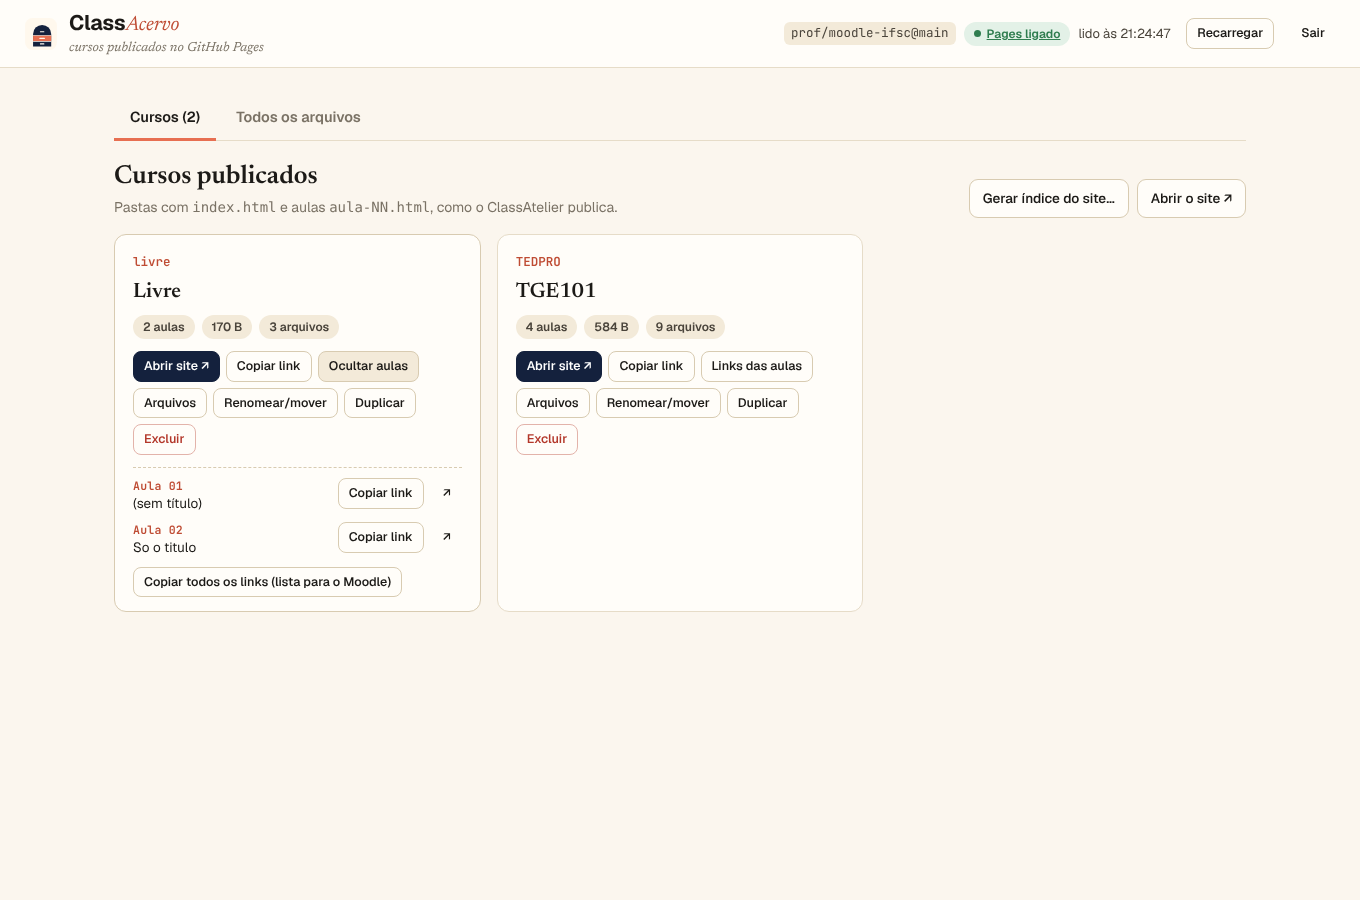
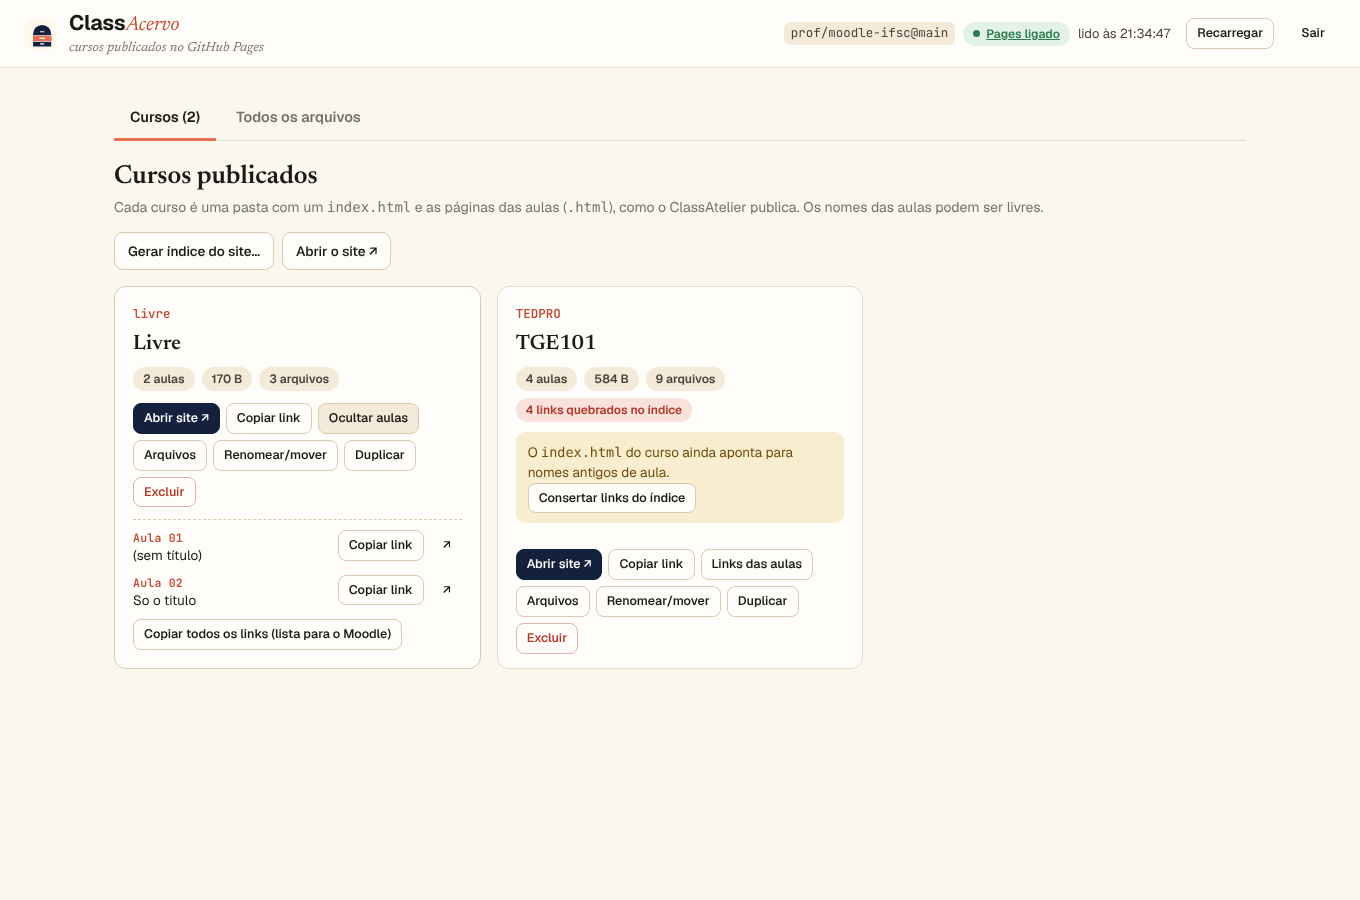
ClassAcervo: texto da aba Cursos atualizado; árvore de arquivos abre as pastas de cima
Claude-Session: https://claude.ai/code/session_019hsNeLWW9aShWMiNsGKSuX

diff --git a/acervo/acervo.js b/acervo/acervo.js
@@ -73,6 +73,7 @@ async function loadRepo() {
   try { S.pages = await api(`${base}/pages`); } catch (e) { S.pages = e.status === 404 ? null : S.pages === undefined ? null : S.pages; }
   await detectCourses();
   S.loadedAt = new Date();
+  if (!S.treeInit) { S.treeInit = true; for (const d of S.dirs) if (!d.includes("/")) S.open.add(d); } // 1ª leitura: abre as pastas de cima, a árvore não parece vazia
   for (const p of [...S.checked]) if (!S.files.has(p) && !S.dirs.has(p)) S.checked.delete(p);
 }
 
@@ -376,7 +377,7 @@ function renderMain() {
   const tabs = `<div class="tabs" role="tablist"><button class="tab" role="tab" data-act="tab" data-view="cursos" aria-selected="${S.view === "cursos"}">Cursos (${S.courses.length})</button><button class="tab" role="tab" data-act="tab" data-view="arquivos" aria-selected="${S.view === "arquivos"}">Todos os arquivos</button></div>`;
   let body;
   if (S.view === "cursos") {
-    body = `<div class="section-head"><div><h2>Cursos publicados</h2><p>Pastas com <code>index.html</code> e aulas <code>aula-NN.html</code>, como o ClassAtelier publica.</p></div><div class="actions"><button class="btn" data-act="index" data-path="">Gerar índice do site…</button><a class="btn" href="${esc(pagesBase())}" target="_blank" rel="noopener">Abrir o site ↗</a></div></div>` +
+    body = `<div class="section-head"><div><h2>Cursos publicados</h2><p>Cada curso é uma pasta com um <code>index.html</code> e as páginas das aulas (<code>.html</code>), como o ClassAtelier publica. Os nomes das aulas podem ser livres.</p></div><div class="actions"><button class="btn" data-act="index" data-path="">Gerar índice do site…</button><a class="btn" href="${esc(pagesBase())}" target="_blank" rel="noopener">Abrir o site ↗</a></div></div>` +
       (S.courses.length ? `<div class="grid">${S.courses.map(courseCard).join("")}</div>` : `<div class="empty"><h3>Nenhum curso encontrado neste repositório</h3><p>Publique pelo ClassAtelier em Exportar → Curso e GitHub…, ou use a aba de arquivos para ver tudo o que há aqui.</p></div>`);
   } else {
     body = `<div class="section-head"><div><h2>Todos os arquivos</h2><p>${S.files.size} arquivos em ${S.dirs.size} pastas. <b>Clique</b> em um item para ver detalhes e ações. <b>Marque as caixas</b> para excluir vários de uma vez.</p></div></div>${bulkBar()}<div class="explorer"><div class="tree" role="tree" aria-label="Arquivos do repositório">${treeRows("", 0) || '<div class="empty">Repositório vazio.</div>'}</div>${detailPanel()}</div>`;

diff --git a/acervo/acervo.css b/acervo/acervo.css
@@ -96,7 +96,7 @@ main{max-width:1180px;margin:0 auto;padding:28px 24px 80px}
 .node{display:flex;align-items:center;gap:7px;padding:5px 8px;border-radius:8px;cursor:pointer;font-size:14px;min-height:30px}
 .node:hover{background:var(--sand)}
 .node[aria-selected=true]{background:#f9e3da}
-.node .twisty{width:16px;flex:none;color:var(--ink-3);font-size:11px;text-align:center}
+.node .twisty{width:20px;flex:none;color:var(--ink-2);font-size:14px;line-height:1;text-align:center}
 .node svg{flex:none;color:var(--ink-3)}
 .node.dir svg{color:var(--coral-deep)}
 .node .name{flex:1;min-width:0;overflow:hidden;text-overflow:ellipsis;white-space:nowrap}

diff --git a/acervo/index.html b/acervo/index.html
@@ -17,13 +17,13 @@
 <meta property="og:image:type" content="image/png">
 <meta name="twitter:card" content="summary_large_image">
 <link rel="stylesheet" href="../fonts/fonts.css">
-<link rel="stylesheet" href="./acervo.css?v=6">
+<link rel="stylesheet" href="./acervo.css?v=7">
 </head>
 <body>
 <header class="top" id="top"></header>
 <main id="main"></main>
 <div id="dialog-root"></div>
 <div id="toast" class="toast" role="status" aria-live="polite" hidden></div>
-<script type="module" src="./acervo.js?v=6"></script>
+<script type="module" src="./acervo.js?v=7"></script>
 </body>
 </html>
